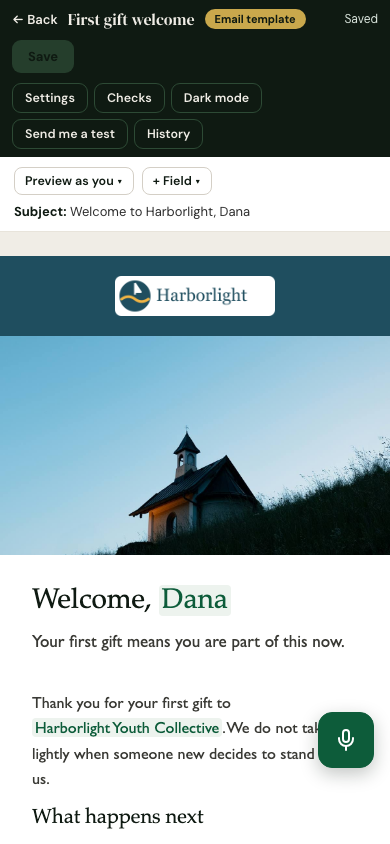
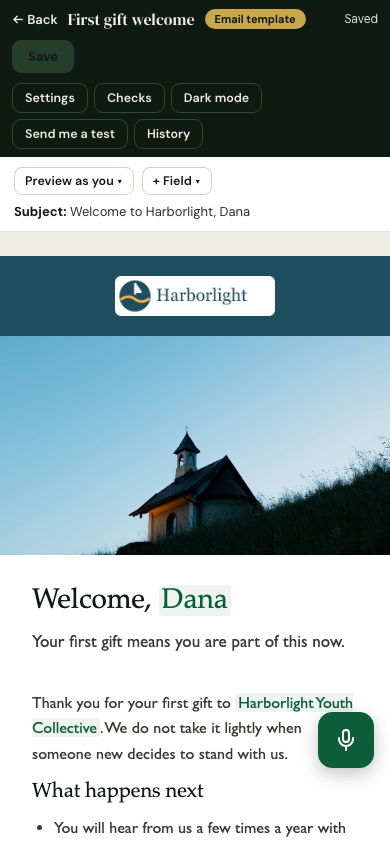
EDITOR-1: walk fixes (quote drafts, unsaved blocks in preview, chips wrap, campaign back)

Changed region(s): [[0.0923, 0.8318, 0.8923, 0.9858], [0.8308, 0.955, 0.8923, 0.9858], [0.7385, 0.955, 0.8, 0.9858]]

diff --git a/client/src/components/CampaignEditor.jsx b/client/src/components/CampaignEditor.jsx
@@ -206,8 +206,13 @@ export default function CampaignEditor({
     </div>
   );
 
+  // Asked only when something here differs from what was opened.
+  // (The group's name, filled in after opening, is a label and not an edit.)
+  const snap = () => JSON.stringify([stripKeys(latest.current.blocks), form.name, form.subject, form.preheader || "", { ...(form.seg || {}), audienceName: undefined }, form.scheduledAt || ""]);
+  const opened = useRef(null);
+  if (opened.current === null) opened.current = snap();
   const goBack = async () => {
-    if (readOnlySent || await askConfirm({ title: "Leave this campaign?", body: "Anything not saved as a draft is lost.", yes: "Leave" })) onBack();
+    if (readOnlySent || snap() === opened.current || await askConfirm({ title: "Leave this campaign?", body: "Your changes are not saved as a draft yet.", yes: "Leave" })) onBack();
   };
   return (
     <div data-testid="campaign-builder" className="fullscreen-takeover" style={{ position: "fixed", top: 52, left: 0, right: 0, bottom: 0, zIndex: 200 }}>

diff --git a/shared/emailBlocks.js b/shared/emailBlocks.js
@@ -97,7 +97,7 @@ const keysOf = defs => (defs === EMAIL_MERGE_FIELDS ? MERGE_KEYS : new Set(defs.
 // (data-st-token holds it exactly as typed), filled with this person's value,
 // so typing around it never turns a field into somebody's name. The greeting
 // is a chip too: "Dear {{donor_name}}" shows the greeting and saves as typed.
-export const CHIP_STYLE = "background:#edf3ee;color:#0d5c3a;border-radius:4px;padding:0 3px;white-space:nowrap;";
+export const CHIP_STYLE = "background:#edf3ee;color:#0d5c3a;border-radius:4px;padding:0 3px;";
 function chip(name, value) {
   return `<span class="st-chip" data-st-token="${esc(name)}" contenteditable="false" style="${CHIP_STYLE}">${esc(value)}</span>`;
 }

diff --git a/client/src/components/EmailEditor.jsx b/client/src/components/EmailEditor.jsx
@@ -240,7 +240,7 @@ export function insertChip(caret, token, label) {
   const { doc, el, range } = caret;
   const chip = doc.createElement("span");
   chip.className = "st-chip"; chip.setAttribute("data-st-token", token); chip.setAttribute("contenteditable", "false");
-  chip.setAttribute("style", `background:${T.green100};color:${T.green};border-radius:4px;padding:0 3px;white-space:nowrap;`);
+  chip.setAttribute("style", `background:${T.green100};color:${T.green};border-radius:4px;padding:0 3px;`);
   chip.textContent = label;
   try {
     range.deleteContents();

diff --git a/tests/smoke-walk.test.js b/tests/smoke-walk.test.js
@@ -360,7 +360,7 @@ async function emailEditorEverywhere(browser) {
     return res;
   };
   const backToLibrary = async () => {
-    await page.getByTestId("email-editor-back").click().catch(() => {});
+    await page.getByTestId("editor-back").click().catch(() => {});
     await page.waitForSelector("[data-template-card]", { timeout: 15000 }).catch(() => {});
   };
   const card = id => page.locator(`[data-template-id="${id}"]`).first();
